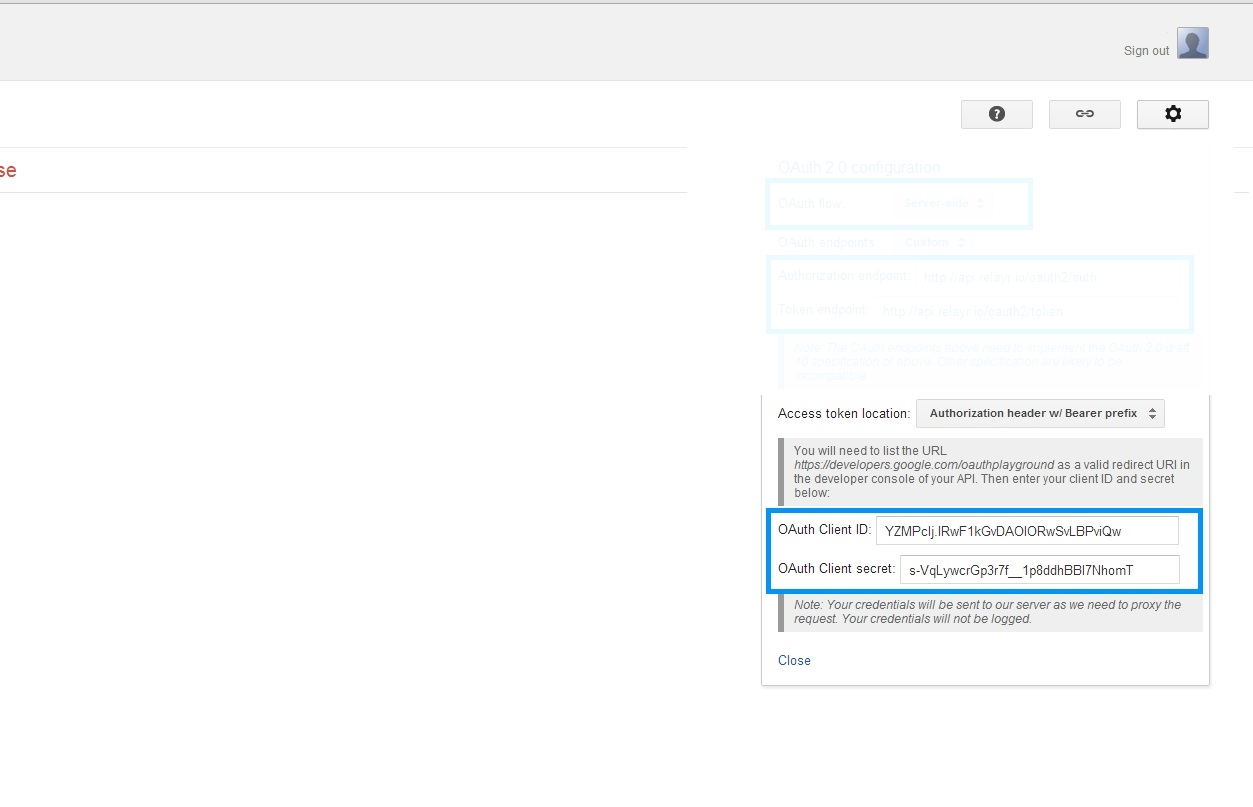
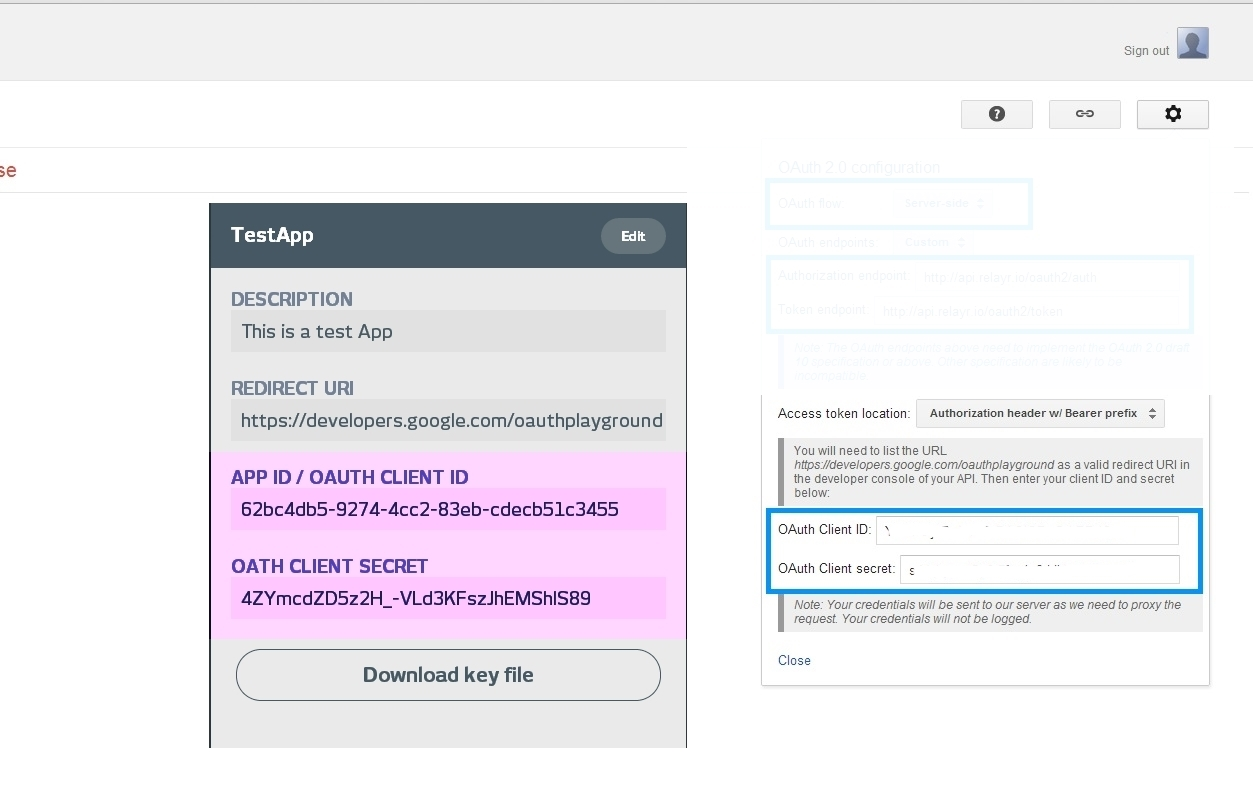
Update Token documentation

Changed region(s): [[0.1556, 0.4647, 0.5603, 0.8674], [0.1556, 0.2478, 0.5603, 0.4337], [0.7159, 0.6506, 0.9026, 0.7125]]

diff --git a/WebDev/OAuthToken.md b/WebDev/OAuthToken.md
@@ -19,8 +19,6 @@ The following steps will enable you to get an OAuth token for your relayr App. T
 
 <img src="assets/step2_2.jpg" class="center" width=800px>
 
-<img src="assets/step2_4.jpg" class="center" width=300px>
-
 #### Make sure to set the redirect URI in the app settings to https://developers.google.com/oauthplayground
 
 <img src="assets/step2_3.jpg" class="center" width=300px>
@@ -29,11 +27,7 @@ The following steps will enable you to get an OAuth token for your relayr App. T
 
 <img src="assets/step3.jpg" class="center" width=800px>
 
-#### 6. You will be prompted to enter your relayr User credentials.
-
-<img src="assets/step4.jpg" class="center" width=800px> 
-
-#### 7. Enter your credentials and click to sign in.
+#### 6. You will be prompted to enter your relayr User credentials. Enter your credentials and click to sign in.
 
 <img src="assets/step5.jpg" class="center" width=800px>
 
@@ -52,28 +46,22 @@ The following steps will enable you to get an OAuth token for your relayr App. T
 #### 1. Access the <a href="http://goo.gl/FW1zFb" target="_blank"> OAuthPlayGround URL </a> 
 
 
-#### 2. The context of the action is predefined:
-
-<img src="assets/step1.jpg" class="center" width=800px>
-
 #### 3. Click the settings menu on the top right corner. Select the Client Side scenario from the drop down 
 
 <img src="assets/client1.jpg" class="center" width=800px>
 
 
-#### 4. Click 'Authorize APIs'.
+#### 4.  Enter the OAuth Client ID as it appears in the App Section of the Developer dashboard and Click 'Authorize APIs':
+
+<img src="assets/client3.jpg" class="center" width=800px>
 
 <img src="assets/step3.jpg" class="center" width=800px>
 
-#### 5. You will be prompted to enter your relayr User credentials.
-
-<img src="assets/step4.jpg" class="center" width=800px> 
-
-#### 6. Enter your credentials and click to sign in. 
+#### 5. You will be prompted to enter your relayr User credentials. Enter your credentials and click to sign in. 
 
 <img src="assets/step5.jpg" class="center" width=800px>
 
 
-#### 7. The token is received as part of the URL and on the left hand side
+#### 6. The token is received as part of the URL and on the left hand side
 
 <img src="assets/client2.jpg" class="center" width=800px>
